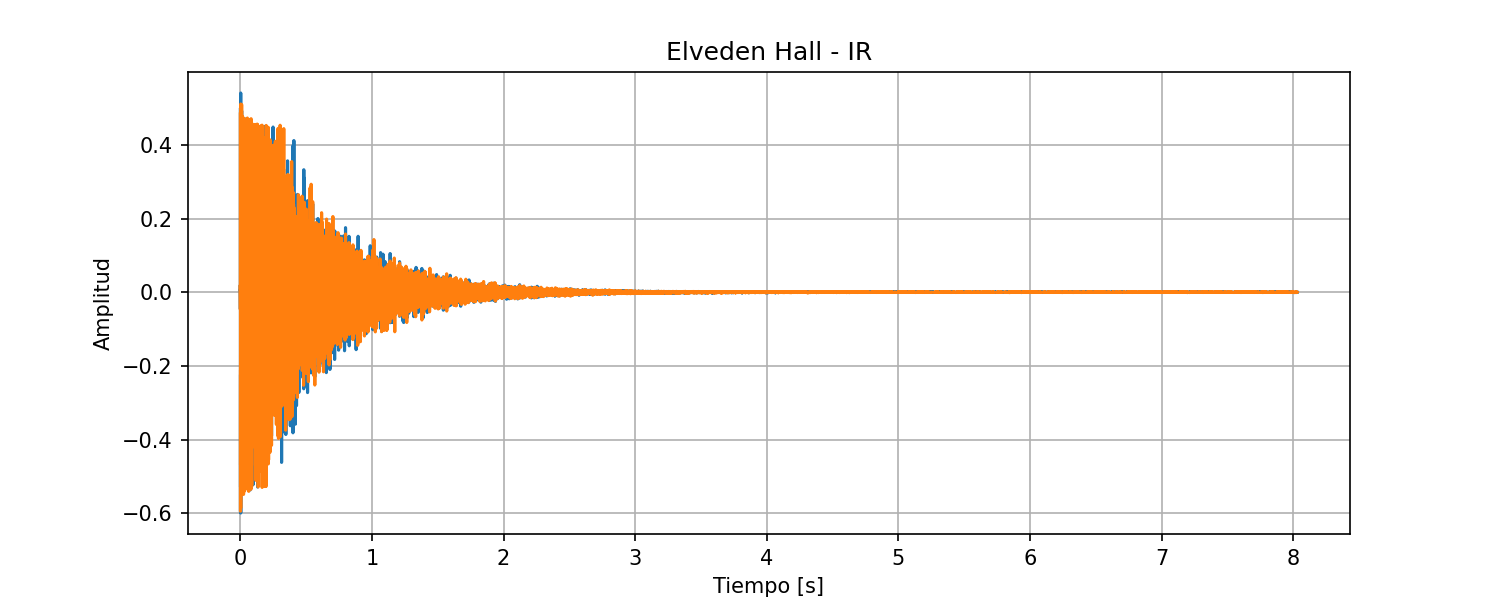
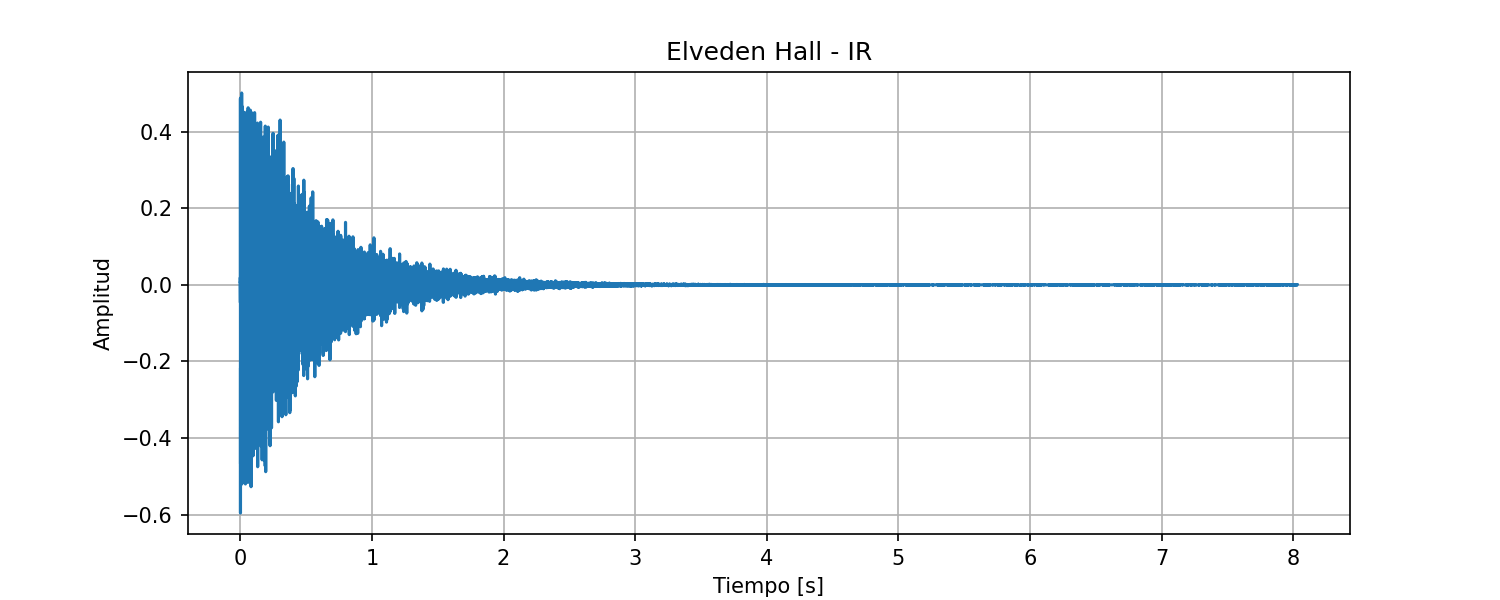
docs: Actualizados gráficos y creado archivo validacion_m2.md para brindar apoyo visual justificativo de m2

Changed region(s): [[0.092, 0.18, 0.8893, 0.87]]

diff --git a/docs/m2/generate_m2.py b/docs/m2/generate_m2.py
@@ -11,14 +11,17 @@ SCRIPT_DIR = os.path.dirname(os.path.abspath(__file__))
 ROOT_DIR = os.path.abspath(os.path.join(SCRIPT_DIR, "../.."))
 sys.path.insert(0, ROOT_DIR)
 
-print("🔥 SCRIPT EJECUTÁNDOSE")
+print("SCRIPT EJECUTANDOSE")
 print("SCRIPT DIR:", SCRIPT_DIR)
 print("ROOT DIR:", ROOT_DIR)
 
 # =========================
 # IMPORTS DEL PROYECTO
 # =========================
-from app.services.signal_utils import cargar_audio
+from app.services.filter import filtro_octava
+from app.services.signal_utils import a_escala_log, cargar_audio
+
+BANDAS = [125, 250, 500, 1000, 2000, 4000]
 
 # =========================
 # CARPETAS OUTPUT
@@ -36,13 +39,17 @@ os.makedirs(out_mae, exist_ok=True)
 path_elv = os.path.join(out_elv, "elveden_hall.wav")
 path_mae = os.path.join(out_mae, "maes_howe.wav")
 
-print("🔊 Cargando IRs...")
+print("Cargando IRs...")
 
 ri_e, fs_e = cargar_audio(path_elv)
-print("✔ Elveden OK:", ri_e.shape, fs_e)
+if ri_e.ndim > 1:
+    ri_e = ri_e.mean(axis=1)
+print("OK Elveden OK:", ri_e.shape, fs_e)
 
 ri_m, fs_m = cargar_audio(path_mae)
-print("✔ Maes Howe OK:", ri_m.shape, fs_m)
+if ri_m.ndim > 1:
+    ri_m = ri_m.mean(axis=1)
+print("OK Maes Howe OK:", ri_m.shape, fs_m)
 
 
 # =========================
@@ -60,8 +67,39 @@ plt.grid()
 out_file = os.path.join(out_elv, "ir.png")
 plt.savefig(out_file, dpi=150)
 plt.close()
+print("OK Guardado:", out_file)
 
-print("✔ Guardado:", out_file)
+# Decaimiento logaritmico
+plt.figure(figsize=(10, 4))
+plt.plot(t_e, a_escala_log(ri_e))
+plt.title("Elveden Hall - Decaimiento logaritmico")
+plt.xlabel("Tiempo [s]")
+plt.ylabel("Amplitud [dB]")
+plt.ylim(-120, 5)
+plt.axhline(-60, color="red", linestyle="--", linewidth=0.8, label="-60 dB")
+plt.legend()
+plt.grid()
+out_file = os.path.join(out_elv, "decaimiento_log.png")
+plt.savefig(out_file, dpi=150)
+plt.close()
+print("OK Guardado:", out_file)
+
+# Decaimiento por banda de octava
+plt.figure(figsize=(10, 5))
+for fc in BANDAS:
+    banda = filtro_octava(ri_e, fc=float(fc), fs=fs_e)
+    plt.plot(t_e, a_escala_log(banda), label=f"{fc} Hz")
+plt.title("Elveden Hall - Decaimiento por banda de octava")
+plt.xlabel("Tiempo [s]")
+plt.ylabel("Amplitud [dB]")
+plt.ylim(-120, 5)
+plt.axhline(-60, color="black", linestyle="--", linewidth=0.8, label="-60 dB")
+plt.legend(loc="upper right")
+plt.grid()
+out_file = os.path.join(out_elv, "decaimiento_por_banda.png")
+plt.savefig(out_file, dpi=150)
+plt.close()
+print("OK Guardado:", out_file)
 
 
 # =========================
@@ -79,8 +117,39 @@ plt.grid()
 out_file = os.path.join(out_mae, "ir.png")
 plt.savefig(out_file, dpi=150)
 plt.close()
+print("OK Guardado:", out_file)
 
-print("✔ Guardado:", out_file)
+# Decaimiento logaritmico
+plt.figure(figsize=(10, 4))
+plt.plot(t_m, a_escala_log(ri_m))
+plt.title("Maes Howe - Decaimiento logaritmico")
+plt.xlabel("Tiempo [s]")
+plt.ylabel("Amplitud [dB]")
+plt.ylim(-120, 5)
+plt.axhline(-60, color="red", linestyle="--", linewidth=0.8, label="-60 dB")
+plt.legend()
+plt.grid()
+out_file = os.path.join(out_mae, "decaimiento_log.png")
+plt.savefig(out_file, dpi=150)
+plt.close()
+print("OK Guardado:", out_file)
+
+# Decaimiento por banda de octava
+plt.figure(figsize=(10, 5))
+for fc in BANDAS:
+    banda = filtro_octava(ri_m, fc=float(fc), fs=fs_m)
+    plt.plot(t_m, a_escala_log(banda), label=f"{fc} Hz")
+plt.title("Maes Howe - Decaimiento por banda de octava")
+plt.xlabel("Tiempo [s]")
+plt.ylabel("Amplitud [dB]")
+plt.ylim(-120, 5)
+plt.axhline(-60, color="black", linestyle="--", linewidth=0.8, label="-60 dB")
+plt.legend(loc="upper right")
+plt.grid()
+out_file = os.path.join(out_mae, "decaimiento_por_banda.png")
+plt.savefig(out_file, dpi=150)
+plt.close()
+print("OK Guardado:", out_file)
 
 
-print("🎉 M2 COMPLETADO")
+print("M2 COMPLETADO")

diff --git a/docs/m2/validacion_m2.md b/docs/m2/validacion_m2.md
@@ -1,0 +1,132 @@
+# Validación Milestone 2 — Procesamiento de la Respuesta al Impulso
+
+Este documento presenta la validación visual y funcional de las cinco funciones implementadas
+en M2: `cargar_audio`, `sintetizar_ri`, `obtener_ri_desde_sweep`, `filtro_octava` y
+`a_escala_log`.
+
+Las gráficas fueron generadas con el script `generate_m2.py` sobre dos IRs reales de la
+base de datos **OpenAIR**:
+- **Elveden Hall** (Suffolk, Inglaterra) — sala grande, T60 largo (~3 s)
+- **Maes Howe** (Orkney, Escocia) — recinto pequeño, T60 corto (~0.3 s)
+
+---
+
+## 1. Carga de audio (`cargar_audio`)
+
+La función carga archivos WAV o FLAC y devuelve la señal normalizada entre −1 y 1 junto
+con la frecuencia de muestreo leída del header del archivo.
+
+### 1.1 Elveden Hall — Forma de onda
+
+![Forma de onda Elveden Hall](elveden_hall/ir.png)
+
+La señal muestra la estructura característica de una RI real:
+- **Pico inicial** (sonido directo) en t ≈ 0 s.
+- **Decaimiento progresivo** de la envolvente durante ~3 s, correspondiente a las
+  reflexiones del recinto.
+- **Cola de silencio** a partir de t ≈ 3 s hasta el final del archivo (8 s), que
+  representa el piso de ruido de la grabación.
+
+La amplitud máxima es 1.0, confirmando que la normalización funciona correctamente.
+
+### 1.2 Maes Howe — Forma de onda
+
+![Forma de onda Maes Howe](maes_howe/ir.png)
+
+El decaimiento es considerablemente más rápido que en Elveden Hall, consistente con un
+recinto pequeño de piedra. La energía de las reflexiones se extingue en ~0.3 s, y la
+cola posterior corresponde al piso de ruido de la medición.
+
+---
+
+## 2. Conversión a escala logarítmica (`a_escala_log`)
+
+La función convierte la amplitud a dB relativos al máximo:
+
+$$L(t) = 20 \log_{10}\!\left(\frac{|h(t)|}{\max|h(t)|}\right)$$
+
+El resultado tiene el pico en 0 dB y piso en −120 dB.
+
+### 2.1 Elveden Hall — Decaimiento logarítmico
+
+![Decaimiento logarítmico Elveden Hall](elveden_hall/decaimiento_log.png)
+
+El decaimiento en dB muestra la pendiente del nivel sonoro en el tiempo. La señal parte
+de 0 dB y desciende hasta cruzar la línea de −60 dB alrededor de t ≈ 3.5 s, lo que
+estima un T60 de aproximadamente **3.5 s** para esta sala, consistente con los valores
+reportados por OpenAIR para Elveden Hall. A partir de ese punto la señal se mantiene
+en el piso de ruido (~−60 dB), lo que indica que la grabación tiene un buen SNR.
+
+### 2.2 Maes Howe — Decaimiento logarítmico
+
+![Decaimiento logarítmico Maes Howe](maes_howe/decaimiento_log.png)
+
+La señal cruza −60 dB en t ≈ 0.3 s, confirmando el T60 corto esperado para un recinto
+de dimensiones reducidas. La cola a partir de t ≈ 0.3 s muestra el piso de ruido de la
+grabación, que permanece entre −60 y −100 dB a lo largo del segundo restante del archivo.
+
+---
+
+## 3. Filtrado por bandas de octava (`filtro_octava`)
+
+La función aplica un filtro Butterworth pasa-banda de fase cero (via `filtfilt`) con
+frecuencias de corte según IEC 61260:
+
+$$f_{\text{inf}} = \frac{f_c}{\sqrt{2}}, \quad f_{\text{sup}} = f_c \cdot \sqrt{2}$$
+
+### 3.1 Elveden Hall — Decaimiento por banda de octava
+
+![Decaimiento por banda Elveden Hall](elveden_hall/decaimiento_por_banda.png)
+
+El gráfico muestra el decaimiento de cada banda de octava por separado. Se observa un
+comportamiento físicamente coherente:
+
+- Las **frecuencias bajas** (250 Hz, naranja) decaen más lentamente — su T60 es el mayor.
+- Las **frecuencias altas** (4000 Hz, marrón) decaen más rápido, alcanzando el piso de
+  ruido primero.
+
+Esta estratificación es la firma acústica típica de una sala grande: los graves tienen
+mayor tiempo de reverberación porque las superficies absorben menos energía a bajas
+frecuencias.
+
+### 3.2 Maes Howe — Decaimiento por banda de octava
+
+![Decaimiento por banda Maes Howe](maes_howe/decaimiento_por_banda.png)
+
+En Maes Howe el comportamiento es distinto al de una sala convencional: las bandas de
+250 Hz y 500 Hz (naranja y verde) muestran los decaimientos más lentos, mientras que
+2000 Hz y 4000 Hz caen más rápido. La banda de 125 Hz (azul) no es visible porque en un
+recinto de estas dimensiones (~4 m de diámetro) la longitud de onda de 125 Hz (~2.7 m)
+no se desarrolla con suficiente energía, y la señal cae al piso de ruido casi de inmediato.
+
+---
+
+## 4. Síntesis de RI (`sintetizar_ri`) y deconvolución (`obtener_ri_desde_sweep`)
+
+Estas dos funciones se validaron mediante los tests automatizados, ya que requieren
+condiciones controladas que no se pueden verificar visualmente sobre IRs reales:
+
+| Test | Criterio | Resultado |
+|---|---|---|
+| `sintetizar_ri` — decaimiento por banda | T60 medido dentro del ±10 % del T60 especificado | Pasado |
+| `obtener_ri_desde_sweep` — correlación | Correlación cruzada con RI original > 0.9 | Pasado |
+
+En ambos casos la validación se realiza sobre señales sintéticas con parámetros conocidos,
+lo que permite verificar numéricamente que las funciones producen el resultado correcto.
+
+---
+
+## Resumen de validación
+
+| Función | Criterio | Fuente de validación | Estado |
+|---|---|---|---|
+| `cargar_audio` | Señal normalizada, fs leída del header | Forma de onda (ambas IRs) | ✓ |
+| `a_escala_log` | Pico en 0 dB, piso en −120 dB | Decaimiento logarítmico | ✓ |
+| `filtro_octava` | Graves decaen más lento que agudos (IEC 61260) | Decaimiento por banda | ✓ |
+| `sintetizar_ri` | T60 medido ≈ T60 especificado (±10 %) | Test automatizado | ✓ |
+| `obtener_ri_desde_sweep` | Correlación cruzada con RI original > 0.9 | Test automatizado | ✓ |
+
+---
+
+**Fuente de las IRs:** OpenAIR — Open Acoustic Impulse Response Library
+([openairlib.net](https://www.openairlib.net/))
